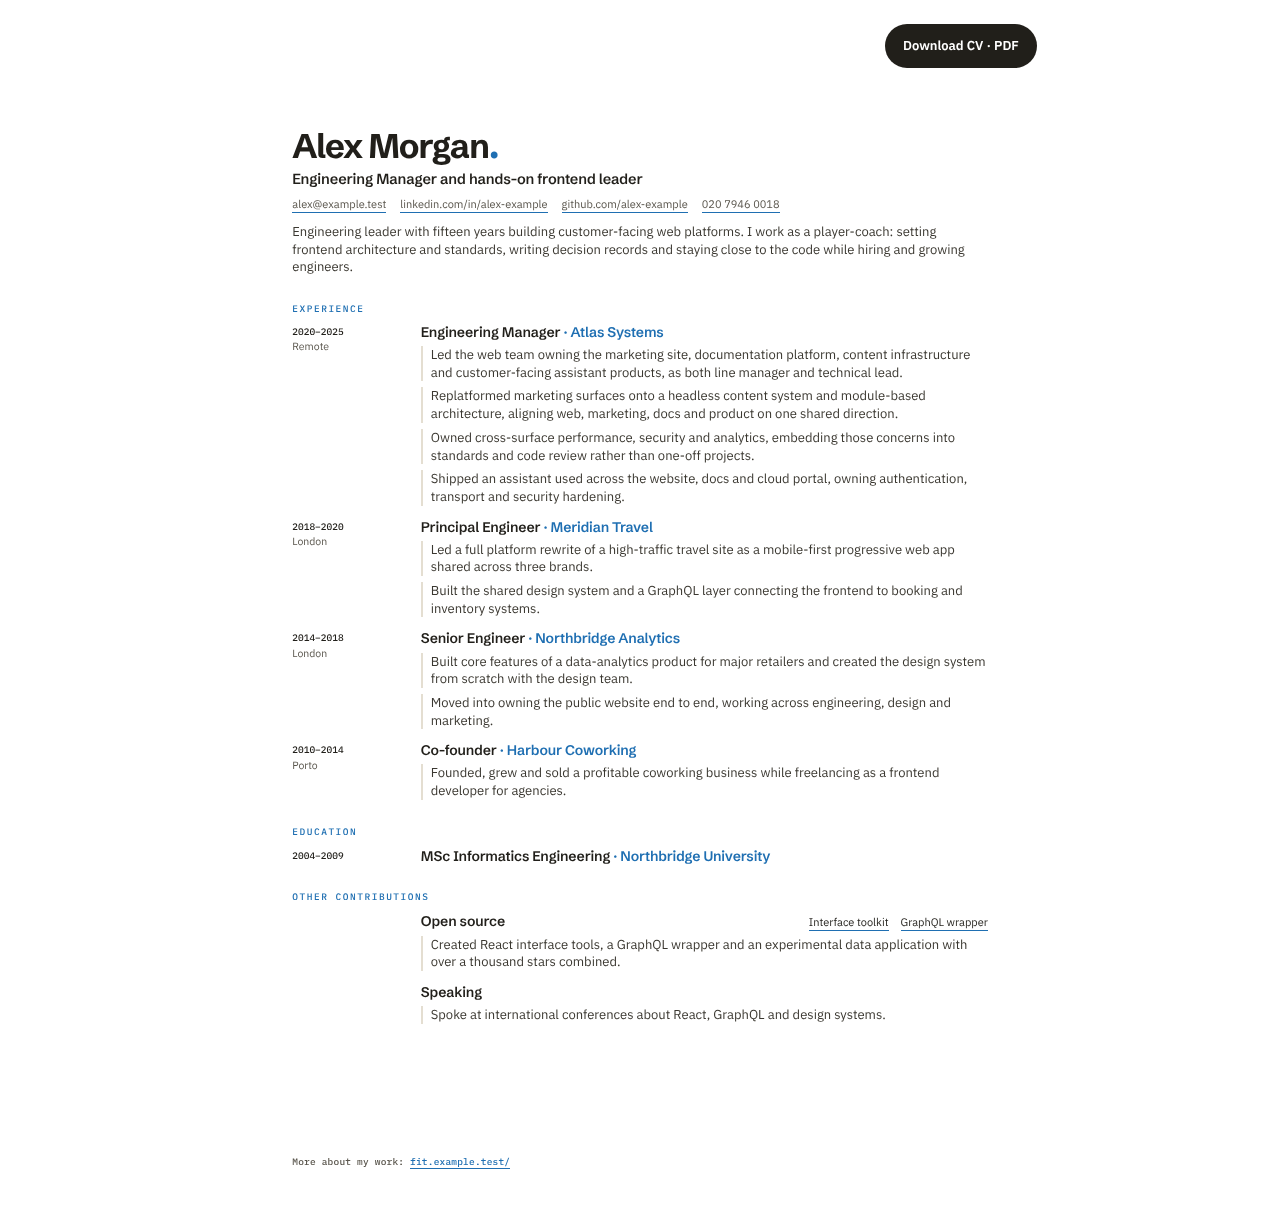
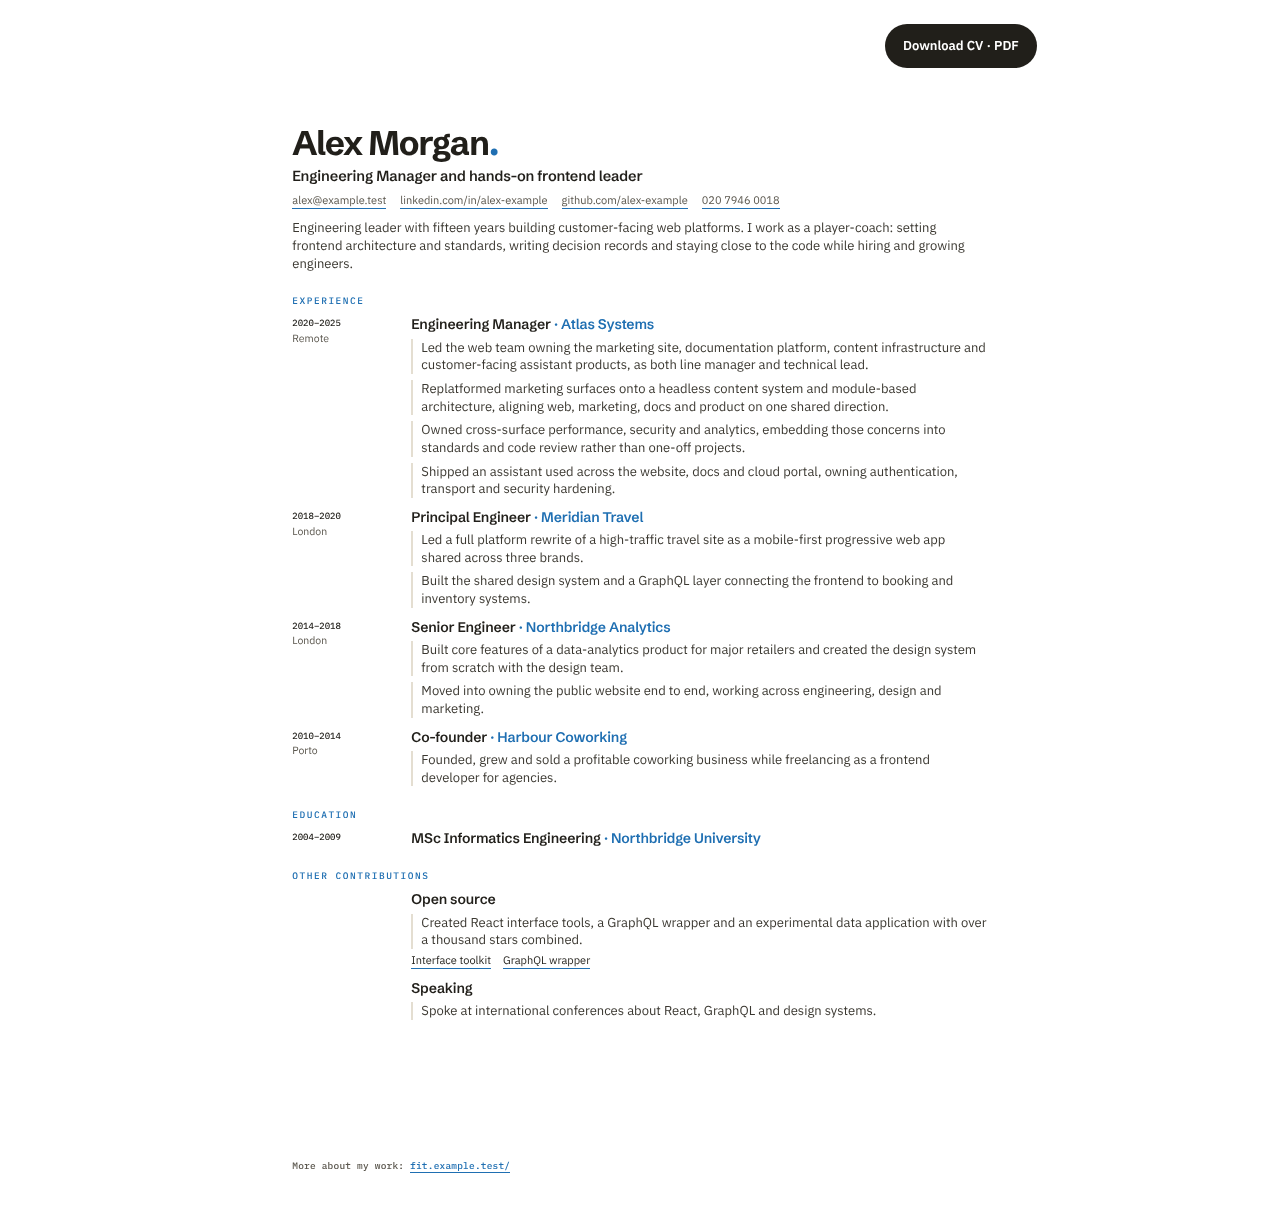
Move CV education location and contribution links like the fit page
Education places the institution's location in the left meta column and
contribution links follow their evidence on screen. In the A4 PDF links
stay beside the title so a full general CV still fits one page.

Claude-Session: https://claude.ai/code/session_01GAwkU9J7SXUxrdqUJrLukE

diff --git a/lib/application-cv-render.js b/lib/application-cv-render.js
@@ -27,15 +27,14 @@ async function embeddedFonts() {
 }
 
 // Like the fit page CV: dates and place sit in a left meta column beside the
-// title and evidence. The meta column comes first in the DOM but carries no
-// validated text, so the PDF reading-order check is unaffected.
+// title, evidence and links. The meta column follows the body in the DOM and
+// is placed on the left by the grid, so PDF text keeps title-first order.
 function entryMarkup(entry, className='entry') {
-  const dates=clean(entry.dates),place=clean(entry.company ? entry.location : '');
-  return `<article class="${className}"><div class="entry-meta">${dates ? `<span class="entry-when">${escape(dates)}</span>` : ''}${place ? `<span class="entry-place">${escape(place)}</span>` : ''}</div>
-    <div class="entry-body"><div class="entry-head"><span class="entry-title"><strong>${escape(entry.title)}</strong>${entry.company || entry.location ? ` <span class="entry-org">· ${escape(entry.company || entry.location)}</span>` : ''}</span>
-    ${publicApplicationCvLinks(entry.links).length ? `<div class="entry-links">${publicApplicationCvLinks(entry.links).map(link=>`<a href="${escape(link.href)}">${escape(link.label)}</a>`).join('')}</div>` : ''}</div>
+  const dates=clean(entry.dates),place=clean(entry.location),links=publicApplicationCvLinks(entry.links);
+  return `<article class="${className}"><div class="entry-body"><h3 class="entry-title"><strong>${escape(entry.title)}</strong>${entry.company ? ` <span class="entry-org">· ${escape(entry.company)}</span>` : ''}</h3>
     ${(entry.bullets || []).map(bullet => `<p class="entry-detail">${escape(bullet.text)}</p>`).join('')}
-</div></article>`;
+    ${links.length ? `<div class="entry-links">${links.map(link=>`<a href="${escape(link.href)}">${escape(link.label)}</a>`).join('')}</div>` : ''}</div>
+    <div class="entry-meta">${dates ? `<span class="entry-when">${escape(dates)}</span>` : ''}${place ? `<span class="entry-place">${escape(place)}</span>` : ''}</div></article>`;
 }
 
 export async function renderApplicationCvHtml(content,{minBodyPx=13,showDownload=false}={}) {
@@ -52,29 +51,29 @@ export async function renderApplicationCvHtml(content,{minBodyPx=13,showDownload
   <title>${escape(content.identity?.name)} · CV</title><style>${fontCss}
   @page{size:A4;margin:0}*{box-sizing:border-box}html,body{margin:0;padding:0;background:#fff;color:#211f1a}
   body{font-family:Plex,Arial,sans-serif;font-size:${bodyPx}px;line-height:1.36;font-variant-ligatures:none}
-  .page{--accent:#1f6fb2;--paper:#fff;--line:#e6e1d6;--sub:#5a564d;--body:#3b3831;width:210mm;min-height:296mm;padding:12mm 13mm 9mm;background:var(--paper);display:flex;flex-direction:column}
+  .page{--accent:#1f6fb2;--paper:#fff;--line:#e6e1d6;--sub:#5a564d;--body:#3b3831;width:210mm;min-height:296mm;padding:11mm 13mm 8mm;background:var(--paper);display:flex;flex-direction:column}
   header{padding:0}
   h1{font:700 34px/1 Schibsted,Plex,sans-serif;letter-spacing:-.035em;margin:0}h1 .dot{color:var(--accent)}
   .headline{font:600 14.5px/1.3 Schibsted,Plex,sans-serif;letter-spacing:-.01em;margin:7px 0 0}
   .contacts{display:flex;flex-wrap:wrap;gap:2px 14px;margin:8px 0 0;color:var(--sub);font-size:11px}
   a{color:inherit;text-decoration:none;border-bottom:1px solid var(--accent)}
   .intro{margin:10px 0 0;max-width:180mm;color:var(--body)}
-  section{margin-top:7mm;background:transparent;border:0;border-radius:0;padding:0}
+  section{margin-top:6mm;background:transparent;border:0;border-radius:0;padding:0}
   h2{font:500 9.5px/1.3 PlexMono,monospace;letter-spacing:.16em;text-transform:uppercase;color:var(--accent);margin:0 0 8px}
-  .entry{display:grid;grid-template-columns:29mm minmax(0,1fr);column-gap:5mm;margin:0 0 12px;break-inside:avoid}.entry:last-child{margin-bottom:0}
+  .entry{display:grid;grid-template-columns:27mm minmax(0,1fr);column-gap:4.5mm;margin:0 0 10px;break-inside:avoid}.entry:last-child{margin-bottom:0}.entry-body{grid-column:2;grid-row:1;min-width:0}.entry-meta{grid-column:1;grid-row:1}
   .entry-meta{display:flex;flex-direction:column;gap:1px;padding-top:2px}.entry-place{font-size:10.5px;line-height:1.35;color:var(--sub)}
-  .entry-head{display:flex;justify-content:space-between;gap:10px;align-items:baseline}
-  .entry-title{font:600 14px/1.3 Schibsted,Plex,sans-serif;letter-spacing:-.01em}.entry-title strong{font-weight:600}.entry-org{color:var(--accent)}
-  .entry-when{font:500 9.5px/1.4 PlexMono,monospace;letter-spacing:0;white-space:nowrap;color:#211f1a}
-  .entry-detail{margin:4px 0 0;padding-left:8px;border-left:2px solid #e4ded1;break-inside:avoid;color:var(--body)}.entry-head+.entry-detail{margin-top:5px}section:first-of-type .entry-detail+.entry-detail{margin-top:6px}
-  .entry-links{display:flex;flex-wrap:wrap;justify-content:flex-end;gap:3px 12px;margin-left:auto;font-size:11px;text-align:right;min-width:0}.entry-links a{max-width:100%;overflow-wrap:anywhere}
-  footer{margin-top:auto;padding:6mm 0 0;font:500 9.5px/1.4 PlexMono,monospace;letter-spacing:.02em;color:var(--sub)}
+  .entry-title{display:block;margin:0;font:600 14px/1.3 Schibsted,Plex,sans-serif;letter-spacing:-.01em}.entry-title strong{font-weight:600}.entry-org{color:var(--accent)}
+  .entry-when{font:500 9px/1.4 PlexMono,monospace;letter-spacing:0;white-space:nowrap;color:#211f1a}
+  .entry-detail{margin:4px 0 0;padding-left:8px;border-left:2px solid #e4ded1;break-inside:avoid;color:var(--body)}.entry-title+.entry-detail{margin-top:5px}section:first-of-type .entry-detail+.entry-detail{margin-top:6px}
+  .entry-links{display:flex;flex-wrap:wrap;gap:2px 12px;margin-top:4px;font-size:11px;min-width:0}.entry-links a{max-width:100%;overflow-wrap:anywhere}
+  footer{margin-top:auto;padding:4mm 0 0;font:500 9.5px/1.4 PlexMono,monospace;letter-spacing:.02em;color:var(--sub)}
   footer a{color:var(--accent);border-bottom-color:currentColor}
   .download{display:none}
+  @media print{.entry-body{display:grid;grid-template-columns:fit-content(70%) minmax(0,1fr);column-gap:10px;align-content:start}.entry-title{grid-column:1;grid-row:1}.entry-body>.entry-detail{grid-column:1/-1}.entry-links{grid-column:2;grid-row:1;justify-content:flex-end;text-align:right;margin-top:0;align-self:baseline}}
   @media screen{body{background:#fff;padding:24px 20px}.page{margin:auto;overflow:hidden}
     .download{display:flex;justify-content:flex-end;max-width:210mm;margin:0 auto 16px}.download a{display:inline-flex;align-items:center;gap:8px;min-height:44px;padding:10px 18px;background:#211f1a;color:#fff;border:0;border-radius:999px;font-weight:600}
     .download a:hover{background:#1f6fb2}
-    @media(max-width:834px){body{padding:16px;font-size:16px}.page{width:100%;min-height:0;padding:28px 20px 24px}header{padding:0}section{margin-top:32px;padding:0}footer{padding:32px 0 0;font-size:12px}h1{font-size:32px}.headline{font-size:17px}.entry-head{flex-direction:column;gap:3px}.entry-title{font-size:17px}.entry-when{white-space:normal;font-size:12px}.contacts{font-size:13px}.contacts,.entry-links{gap:8px 12px}.entry-links{font-size:13px;margin-left:0;justify-content:flex-start;text-align:left}.entry{margin-bottom:22px;grid-template-columns:minmax(0,1fr)}.entry-body{display:contents}.entry-head{order:1}.entry-meta:empty{display:none}.entry-meta{order:2;flex-direction:row;flex-wrap:wrap;gap:0 5px;padding-top:3px}.entry-place{font-size:13px}.entry-meta .entry-when+.entry-place::before{content:'· '}.entry-detail{order:3}.entry-detail{margin-top:6px}a{overflow-wrap:anywhere}}}
+    @media(max-width:834px){body{padding:16px;font-size:16px}.page{width:100%;min-height:0;padding:28px 20px 24px}header{padding:0}section{margin-top:32px;padding:0}footer{padding:32px 0 0;font-size:12px}h1{font-size:32px}.headline{font-size:17px}.entry-title{font-size:17px}.entry-when{white-space:normal;font-size:12px}.contacts{font-size:13px}.contacts,.entry-links{gap:8px 12px}.entry-links{font-size:13px;margin-top:8px;order:4}.entry{margin-bottom:22px;grid-template-columns:minmax(0,1fr)}.entry-body{display:contents}.entry-title{order:1}.entry-meta:empty{display:none}.entry-meta{order:2;flex-direction:row;flex-wrap:wrap;gap:0 5px;padding-top:3px}.entry-place{font-size:13px}.entry-meta .entry-when+.entry-place::before{content:'· '}.entry-detail{order:3}.entry-detail{margin-top:6px}a{overflow-wrap:anywhere}}}
   </style></head><body>${general && showDownload ? '<nav class="download" aria-label="CV download"><a href="/bernardo-raposo-cv.pdf">Download CV · PDF</a></nav>' : ''}<main class="page" id="cv-page"><header><h1>${escape(content.identity?.name)}<span class="dot" aria-hidden="true">.</span></h1>
   <p class="headline">${escape(content.identity?.headline)}</p><div class="contacts">${contacts}</div>
   ${content.summary && content.summary !== content.identity?.headline ? `<p class="intro">${escape(content.summary)}</p>` : ''}</header>
@@ -98,7 +97,7 @@ export async function validateApplicationCvPdf(pdfBytes,{fitUrl,name,content}) {
         ...(content.identity?.contacts || []).filter(c => clean(c?.label) && safeApplicationCvContactHref(c?.href)).map(c => c.label),
         content.summary !== content.identity?.headline ? content.summary : '',
         ...[...(content.experience || []), ...(content.education || []), ...(content.projects || [])]
-          .flatMap(entry => [entry.title, entry.company || entry.location, ...publicApplicationCvLinks(entry.links).map(link=>link.label), ...(entry.bullets || []).map(b => b.text)])]
+          .flatMap(entry => [entry.title, entry.company, ...(entry.bullets || []).map(b => b.text), ...publicApplicationCvLinks(entry.links).map(link=>link.label), entry.location])]
         .filter(Boolean).map(comparable);
       let cursor = 0;
       for (const fragment of expected) {

diff --git a/DESIGN.md b/DESIGN.md
@@ -326,7 +326,7 @@ The shared radius is 0.75rem. At the default 16px root size, the existing Tailwi
 - The fit report presents three categories under “Where I land” and three differentiators under “What sets me apart” for the current prompt. Keep the experience numbers, beside the text on desktop and above it on mobile. Both sections share title typography (16–21px, weight 600, line-height 1.3) and body typography (16px, line-height 1.65, body2 colour). Render all supplied entries so older reports keep their content.
 - The master CV and standalone cover letter use the public identity from the Sanity CV document. A role-specific customised CV is private and available only through authenticated admin actions until explicitly published. Candidate profile details are private and must never be projected wholesale into a public page.
 - Application CVs include every major career role and select the strongest truthful evidence for the target job description within each role; relevance guides emphasis, not which major roles disappear. Use “Other contributions” for compact independent-work, open-source and speaking entries. Group related open-source packages into one supported overview with labelled, approved project links; keep speaking distinct. Within career entries, retain supported business, leadership and organisational experience alongside technical delivery. Describe company growth and platform scale as context unless the evidence explicitly credits a candidate outcome. Apply the same clean hierarchy to the downloadable PDF: no horizontal divider rules or bullet markers; each evidence paragraph is indented with a light 2px left border that works as the list marker (also on the fit page CV), small paragraph gaps, larger entry gaps and the largest gaps between sections. Preserve readable type and A4 overflow checks instead of shrinking the text to compensate for spacing.
-- Public documents share one accent (`oklch(0.52 0.14 250)`, `#1f6fb2` in the bundled-font PDF) and the brand mark: the candidate name is followed by an accent full stop on the fit page CV, application/general CV and cover letter. On the personalised fit page, “What I bring” differentiators sit in white cards on the warm paper background (one column on mobile), and the Application CV sits on its own white sheet so the downloadable document reads as distinct from the pitch. Its roles use a left meta column for dates and location beside the title, “· company” and evidence; on mobile the meta line moves under the title. The Download CV · PDF action is a filled ink pill. The A4 CV and standalone general/application CV readers use a fully white page and white screen background, without section boxes, corner rounding or sheet shadows. Keep the layout balanced with one shared left edge: the header, section labels, entries and footer all align to the page padding (12mm top, 13mm sides, 9mm bottom on A4; 20px sides in the mobile reader), with no extra inset on the header or sections. Space sections evenly with a 7mm top margin (32px in the mobile reader), entries 12px apart (22px on mobile), and 6px between successive job evidence paragraphs (4px elsewhere). Like the fit page CV, each entry has a 29mm left meta column with dates in Plex Mono ink on one line and the location below in small grey text, beside the title, “· Company” and evidence; on mobile the meta line moves under the title. Entries without dates or location keep the empty column so titles stay aligned. Contribution links stay on the right of the title row. Put contribution links on the right of the title row, aligned like career dates; allow link groups to wrap and stack below the title on mobile. Keep the footer at the foot of the sheet. Use spacing alone between Experience, Education and Other contributions; keep all horizontal separators absent, including around the header and footer. Do not add a coloured side border to the header. Section labels are plain accent IBM Plex Mono capitals with no leading marker; entry headings set “Title” in Schibsted with “· Company” in the accent; the fit/public link sits on the paper at the foot of the page. The renderer embeds Plex Sans 400/600, Schibsted Grotesk 600/700 and Plex Mono 500 from `lib/assets/cv-fonts`. Do not use positioned elements in the PDF header: they change the PDF text order that validation checks. On the fit page CV, company names also use the accent and dates use Plex Mono. The cover letter uses wider A4 margins and 13.5px body text with spacing (not a divider rule) between header and letter; a maximum-length letter must still fit one page.
+- Public documents share one accent (`oklch(0.52 0.14 250)`, `#1f6fb2` in the bundled-font PDF) and the brand mark: the candidate name is followed by an accent full stop on the fit page CV, application/general CV and cover letter. On the personalised fit page, “What I bring” differentiators sit in white cards on the warm paper background (one column on mobile), and the Application CV sits on its own white sheet so the downloadable document reads as distinct from the pitch. Its roles use a left meta column for dates and location beside the title, “· company” and evidence; on mobile the meta line moves under the title. The Download CV · PDF action is a filled ink pill. The A4 CV and standalone general/application CV readers use a fully white page and white screen background, without section boxes, corner rounding or sheet shadows. Keep the layout balanced with one shared left edge: the header, section labels, entries and footer all align to the page padding (11mm top, 13mm sides, 8mm bottom on A4; 20px sides in the mobile reader), with no extra inset on the header or sections. Space sections evenly with a 6mm top margin (32px in the mobile reader), entries 10px apart (22px on mobile), and 6px between successive job evidence paragraphs (4px elsewhere). Like the fit page CV, each entry has a 27mm left meta column with dates in 9px Plex Mono ink on one line and the location below in small grey text, beside the title, “· Company” and evidence; on mobile the meta line moves under the title. Education puts the institution's location in the meta column. Entries without dates or location keep the empty column so titles stay aligned. On screen, contribution links sit below their evidence, left-aligned, as on the fit page. In the A4 PDF they sit on the right of the title row (the title keeps its width and links wrap beside it) because placing them under the evidence pushes a full general CV onto a second page. Keep the footer at the foot of the sheet. Use spacing alone between Experience, Education and Other contributions; keep all horizontal separators absent, including around the header and footer. Do not add a coloured side border to the header. Section labels are plain accent IBM Plex Mono capitals with no leading marker; entry headings set “Title” in Schibsted with “· Company” in the accent; the fit/public link sits on the paper at the foot of the page. The renderer embeds Plex Sans 400/600, Schibsted Grotesk 600/700 and Plex Mono 500 from `lib/assets/cv-fonts`. Do not use positioned elements in the PDF header: they change the PDF text order that validation checks. On the fit page CV, company names also use the accent and dates use Plex Mono. The cover letter uses wider A4 margins and 13.5px body text with spacing (not a divider rule) between header and letter; a maximum-length letter must still fit one page.
 - Document readers reflow at mobile widths while print retains A4 geometry. Letters may contain older, longer content; overflow warnings must remain visible and old saved paragraphs must not be silently cut to satisfy new generation budgets.
 
 - For visual changes, inspect the affected screen in the browser at desktop and mobile widths; include 1280, 768, 390 and 360 px where relevant. Exercise realistic long names, missing fields, scrolling, empty/stale/running/failed states and keyboard interactions.
